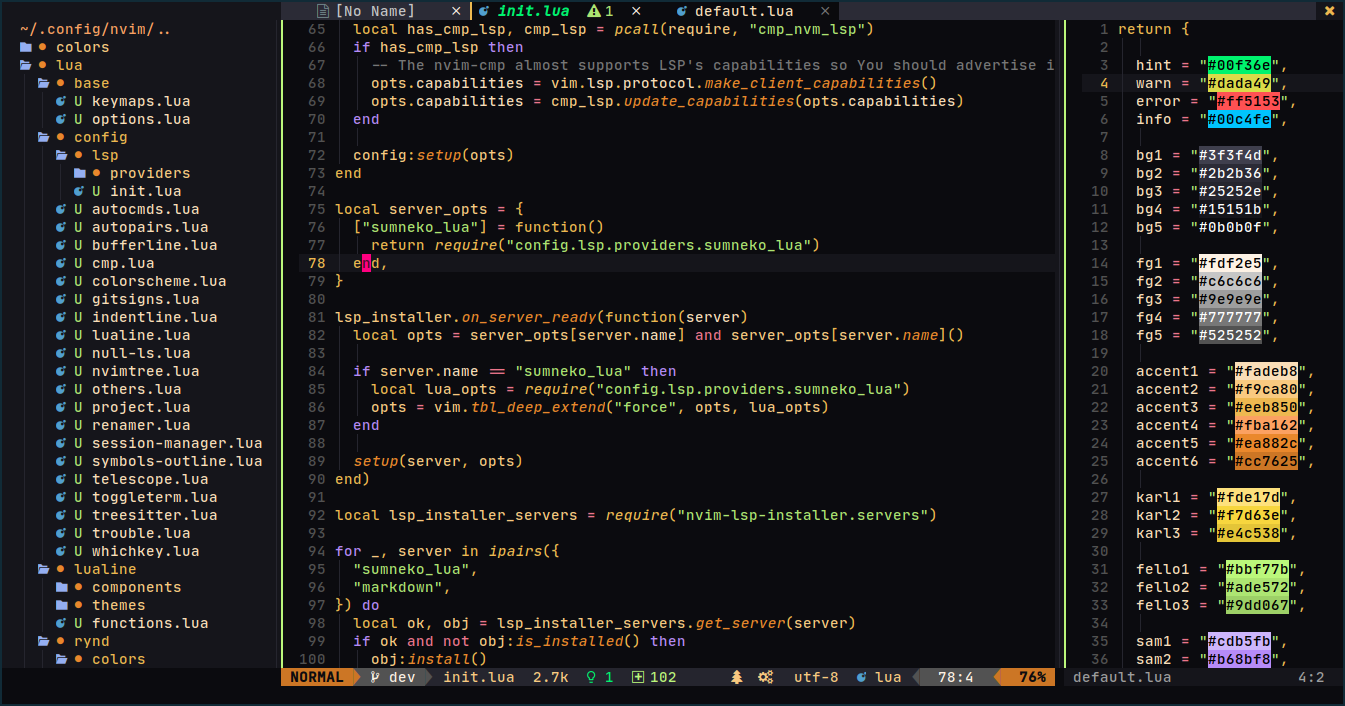
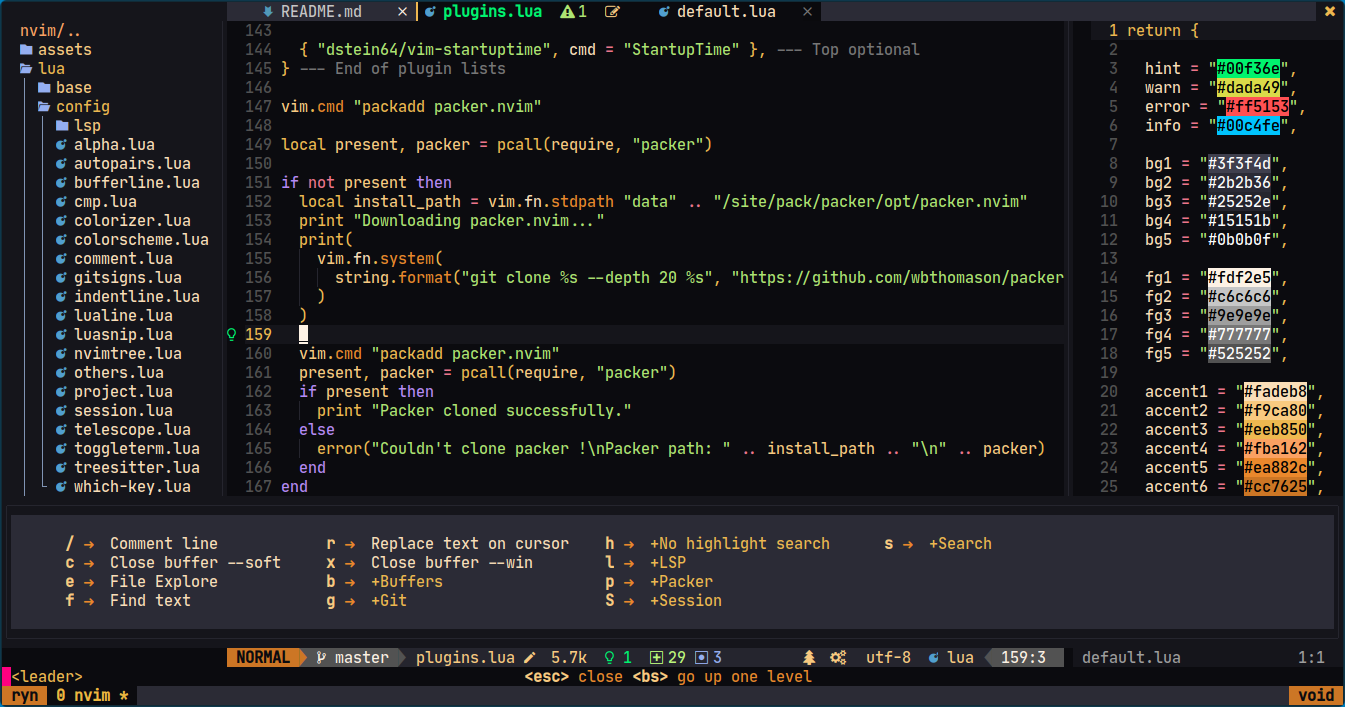
Add more plugins

diff --git a/README.md b/README.md
@@ -1,6 +1,7 @@
 <h1 align="center">RYN</h1>
 
 <div align="center">
+<img src="./assets/alpha.png" alt="ryn"/>
 <img src="./assets/default.png" alt="ryn"/>
 <a href="https://github.com/neovim/neovim">
 <img src="https://img.shields.io/badge/Neovim-0.6.1-blueviolet.svg?style=flat-square&logo=Neovim&logoColor=white" alt="Neovim minimum version"/>
